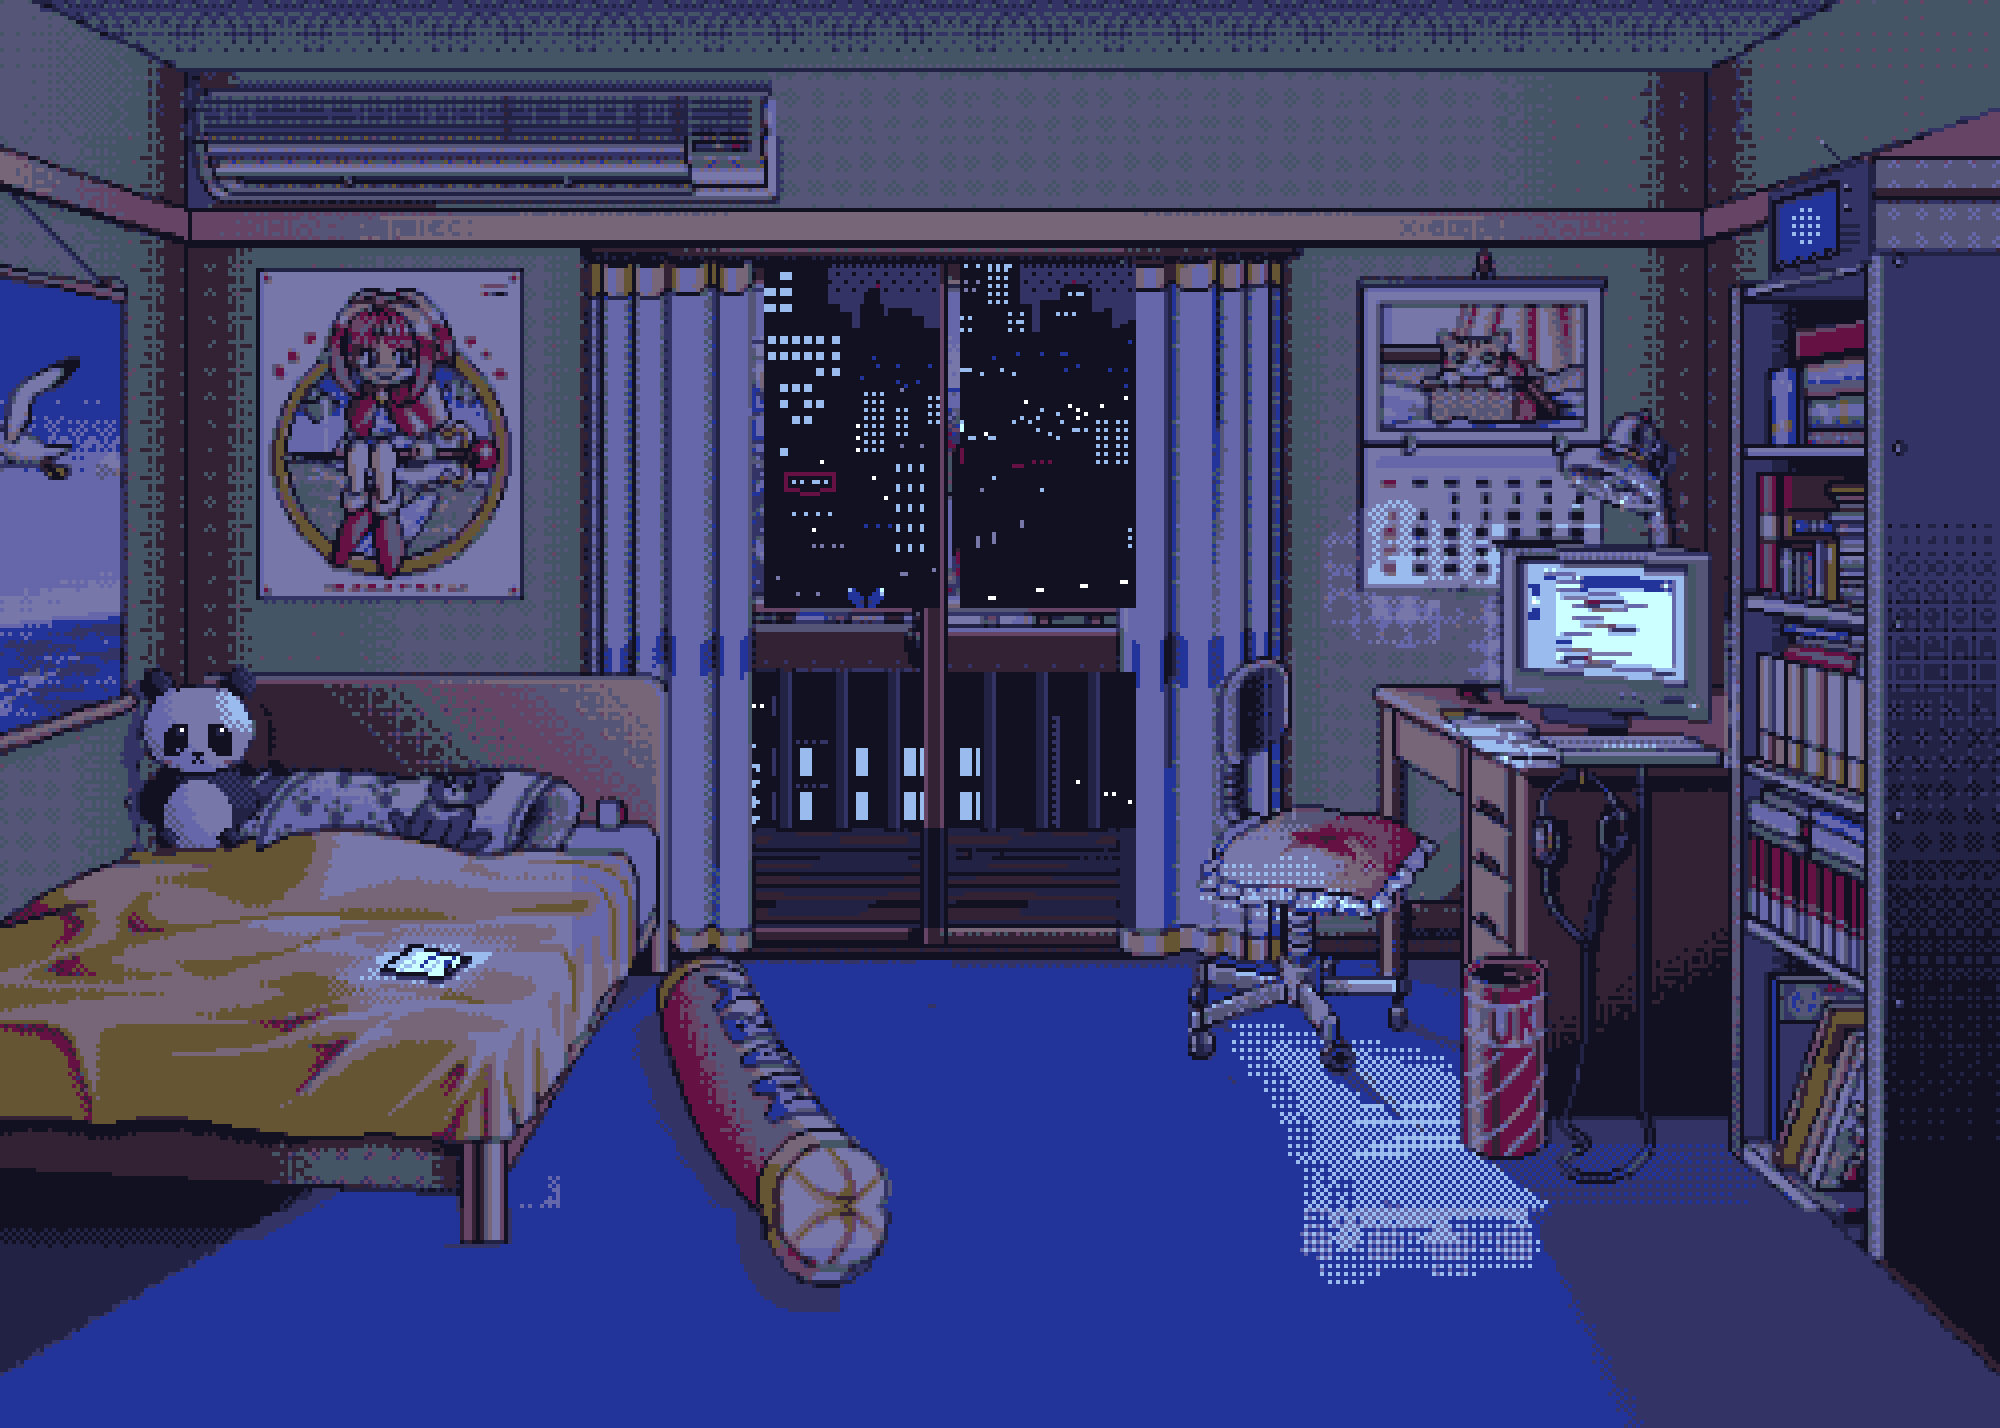
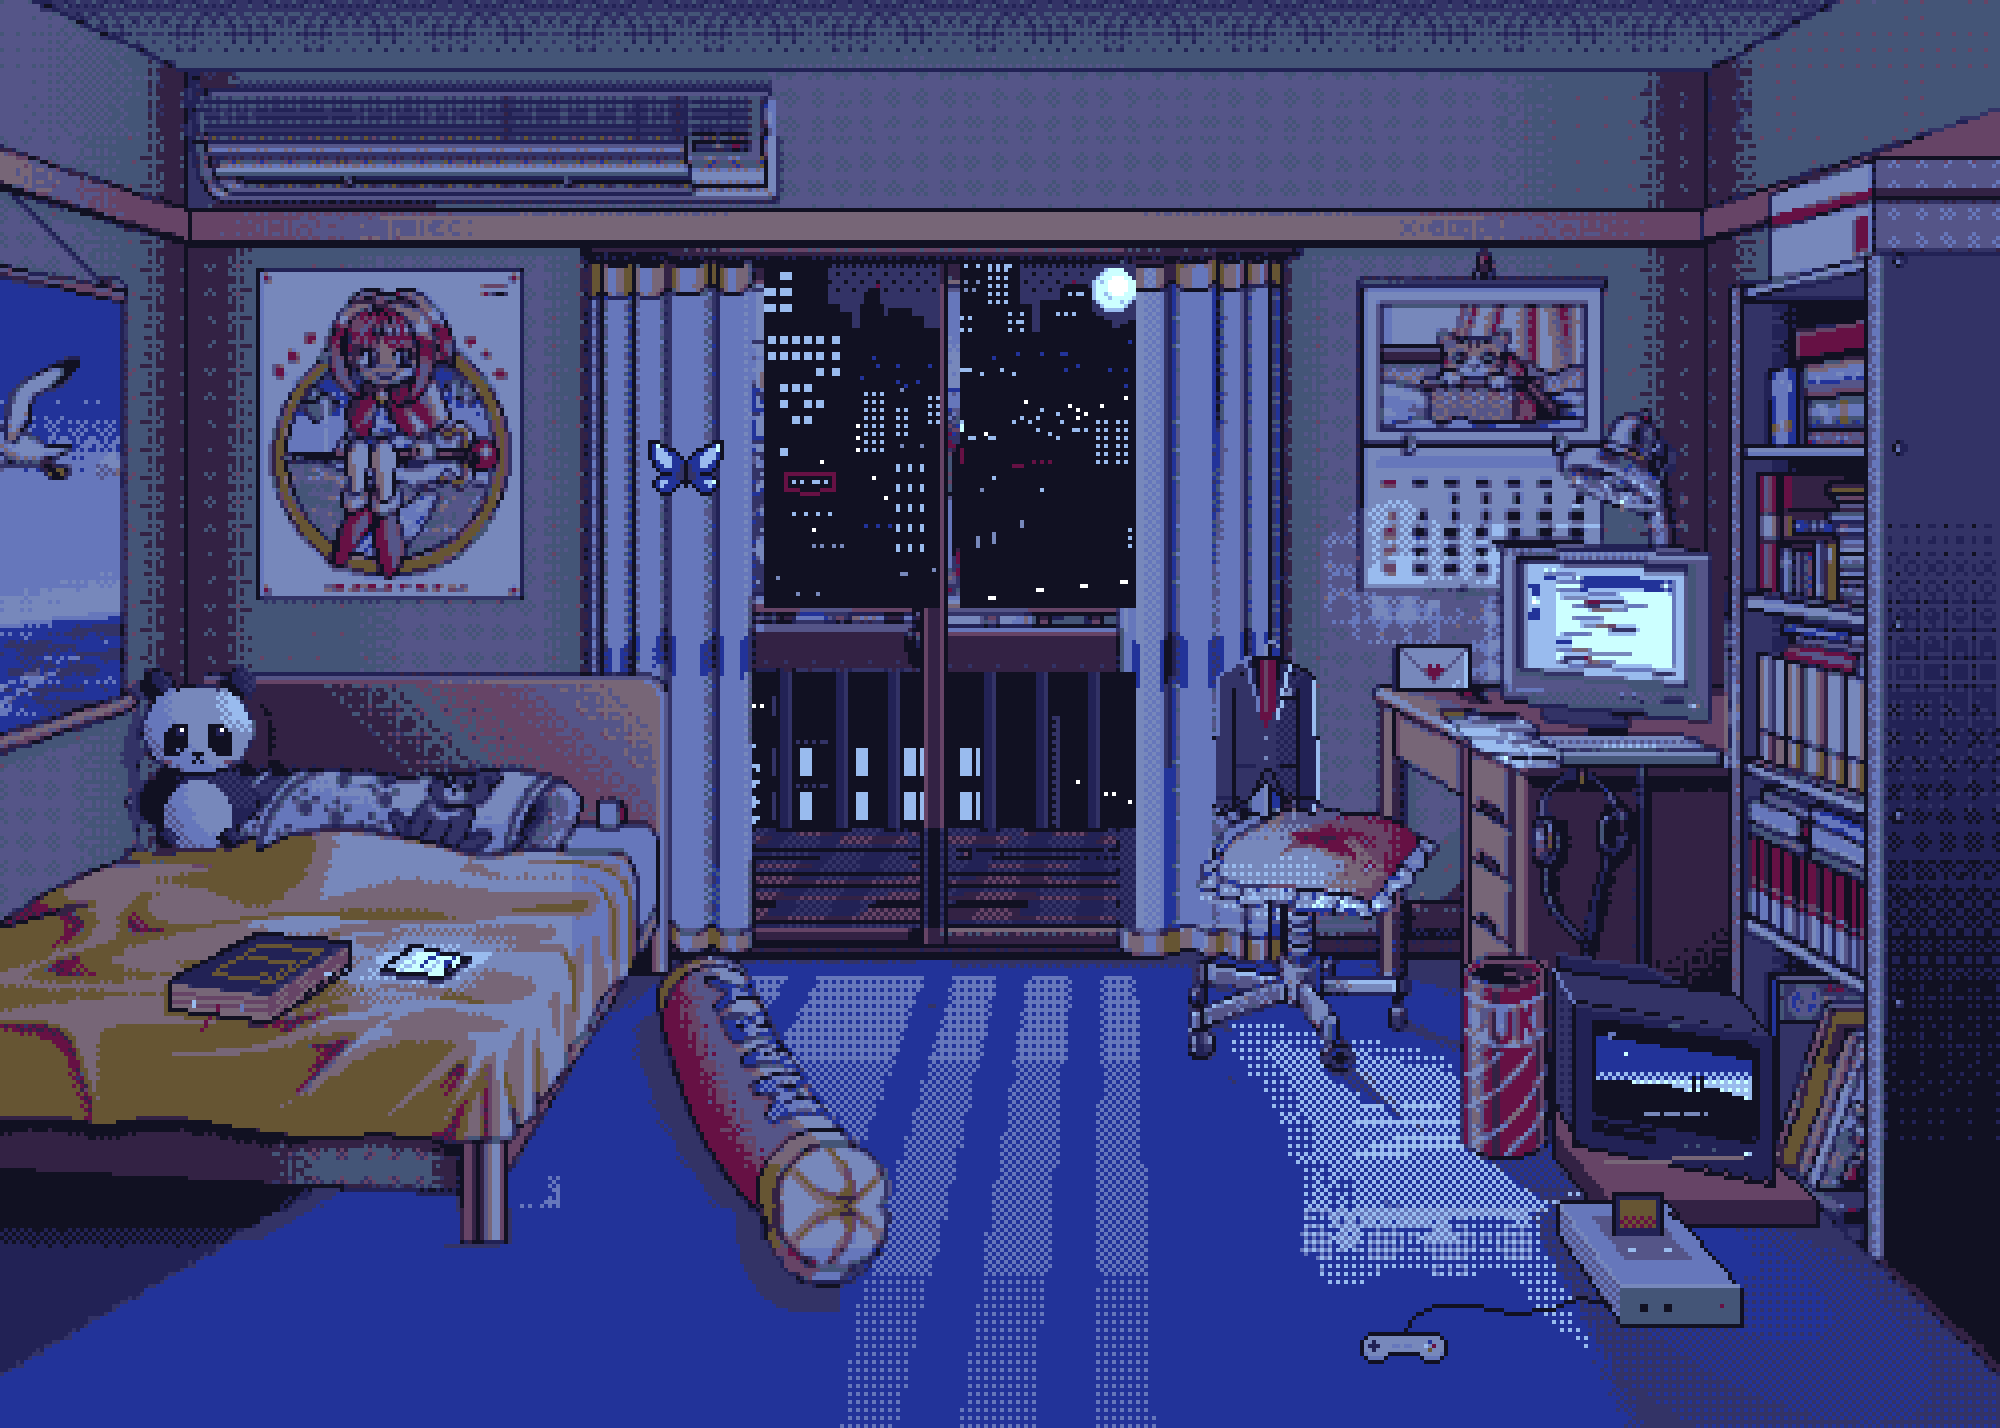
Panda's Room v2: moonlit art, letter, console, tome, blazer and poster; front objects win the pointer
Art v2 from pc98-assets easel/pieces/panda-room (out/site): moonlight through the window, a bigger
butterfly and TV, and new objects. room-data.js takes every polygon/anchor/lit/hit from hotspots.json
and adds Email (letter), Steam (console), LessWrong (tome on the bed), LinkedIn (blazer on the chair)
and the poster knick-knack; images bumped to ?v=4, twinkle moved to the new city rect. room.js stacks
hit areas by the art's z-order (front to back), so the blazer wins over the window and the console
over the TV.

diff --git a/js/room-data.js b/js/room-data.js
@@ -4,8 +4,11 @@
 // (export.py -> out/site: room.png, hotspots.json, lit/, twinkle). All coordinates are the scene's native
 // 500x357 pixels; the images are nearest-neighbour 4x copies that the browser scales down smoothly, so
 // pixels stay crisp and even.
+// The room is only for places elsewhere on the web (accounts, email); the site's own pages are in the sidenav.
 // rank = prominence (how much Panda uses the account): 1 is most. It orders the LOOK list,
 // keyboard focus and which unvisited object glints first.
+// zOrder = the art's objects front to back (hotspots.json z_order_front_to_back): where hit areas
+// overlap (the blazer over the window, the console over the TV), the front one wins.
 // Dialogue: real visual-novel lines where they fit this room (verbatim, adapted or interpolated;
 // PC-98-era lines translated from the Japanese) and plain lines in the same register where they
 // don't; every line has to make sense coming from Panda, about that object, in this night room.
@@ -13,12 +16,15 @@
 // Keep each box <= 48 characters and use straight quotes (the pc-98 font draws curly ones full-width).
 window.ROOM = {
     scene: {
-        src: "/img/room/room@4x.png?v=3",
+        src: "/img/room/room@4x.png?v=4",
         width: 500,
         height: 357,
         // city lights: an 8-frame strip stepped like PC-98 palette cycling (the export's twinkle.json)
-        twinkle: { src: "/img/room/twinkle@4x.png?v=3", x: 189, y: 68, w: 91, h: 133, frames: 8, fps: 2 }
+        twinkle: { src: "/img/room/twinkle@4x.png?v=4", x: 191, y: 68, w: 92, h: 87, frames: 8, fps: 2 }
     },
+
+    zOrder: ["controller", "tv", "butterfly", "linkedin", "letter", "phone", "lesswrong", "plush",
+             "pc", "newspaper", "bookshelf", "poster", "window"],
 
     greeting: [
         "Welcome, traveler, to my room of mysteries.",
@@ -32,9 +38,9 @@ window.ROOM = {
             name: "Window",
             service: "Twitter",
             rank: 1,
-            polygon: [[146, 60], [328, 60], [328, 162], [308, 162], [306, 164], [301, 241], [163, 241], [162, 209], [159, 206], [146, 205], [146, 61]],
+            polygon: [[146, 60], [328, 60], [328, 162], [308, 162], [306, 164], [306, 168], [304, 169], [301, 241], [163, 241], [162, 209], [159, 206], [146, 205], [146, 61]],
             anchor: [233, 145],
-            lit: { src: "/img/room/lit/window@4x.png?v=3", x: 145, y: 59, w: 184, h: 183 },
+            lit: { src: "/img/room/lit/window@4x.png?v=4", x: 145, y: 59, w: 184, h: 183 },
             hover: "E-everything looks so p-pretty at night...",
             click: [
                 "The town, the people... we're all family.",
@@ -53,7 +59,7 @@ window.ROOM = {
             rank: 2,
             polygon: [[102, 236], [118, 239], [118, 241], [113, 245], [107, 246], [95, 244], [95, 242], [102, 237]],
             anchor: [106, 241],
-            lit: { src: "/img/room/lit/phone@4x.png?v=3", x: 94, y: 235, w: 25, h: 12 },
+            lit: { src: "/img/room/lit/phone@4x.png?v=4", x: 94, y: 235, w: 25, h: 12 },
             hit: [[90, 231], [123, 231], [123, 251], [90, 251]], // padded: the object itself is tiny
             hover: "Eh? My phone's buzzing... is that you?",
             click: [
@@ -74,7 +80,7 @@ window.ROOM = {
             rank: 3,
             polygon: [[373, 135], [421, 136], [428, 138], [428, 180], [424, 184], [431, 187], [431, 192], [390, 192], [390, 189], [387, 186], [381, 184], [386, 180], [382, 176], [375, 175], [375, 138], [373, 136]],
             anchor: [402, 161],
-            lit: { src: "/img/room/lit/pc@4x.png?v=3", x: 372, y: 134, w: 60, h: 59 },
+            lit: { src: "/img/room/lit/pc@4x.png?v=4", x: 372, y: 134, w: 60, h: 59 },
             hover: "I keep falling asleep at that computer...",
             click: [
                 "My true love has always been my computer.",
@@ -93,7 +99,7 @@ window.ROOM = {
             rank: 4,
             polygon: [[359, 177], [380, 178], [385, 182], [384, 184], [390, 188], [390, 191], [370, 189], [359, 178]],
             anchor: [374, 183],
-            lit: { src: "/img/room/lit/newspaper@4x.png?v=3", x: 358, y: 176, w: 32, h: 16 },
+            lit: { src: "/img/room/lit/newspaper@4x.png?v=4", x: 358, y: 176, w: 32, h: 16 },
             hover: "Heh. Who knew my essays could be interesting?",
             click: [
                 "I write about cities on my Substack.",
@@ -110,9 +116,9 @@ window.ROOM = {
             name: "Bookshelf",
             service: "Reading list",
             rank: 5,
-            polygon: [[468, 65], [472, 65], [472, 318], [438, 287], [431, 285], [431, 73], [468, 66]],
-            anchor: [452, 184],
-            lit: { src: "/img/room/lit/bookshelf@4x.png?v=3", x: 430, y: 64, w: 43, h: 255 },
+            polygon: [[468, 65], [472, 65], [472, 318], [458, 305], [456, 305], [455, 300], [444, 291], [444, 259], [434, 248], [431, 248], [431, 73], [468, 66]],
+            anchor: [452, 179],
+            lit: { src: "/img/room/lit/bookshelf@4x.png?v=4", x: 430, y: 64, w: 43, h: 255 },
             hover: "If it's books you want, leave it to me.",
             click: [
                 "My reading list isn't ready yet. Soon!",
@@ -128,10 +134,10 @@ window.ROOM = {
             name: "Butterfly",
             service: "Bluesky",
             rank: 6,
-            polygon: [[212, 147], [216, 150], [221, 147], [219, 152], [214, 152], [212, 148]],
-            anchor: [216, 150],
-            lit: { src: "/img/room/lit/butterfly@4x.png?v=3", x: 211, y: 146, w: 11, h: 7 },
-            hit: [[206, 141], [227, 141], [227, 158], [206, 158]], // padded: the object itself is tiny
+            polygon: [[162, 110], [169, 112], [171, 115], [174, 112], [181, 110], [181, 115], [178, 118], [180, 122], [178, 124], [175, 124], [173, 121], [165, 124], [163, 122], [165, 118], [162, 115], [162, 111]],
+            anchor: [171, 116],
+            lit: { src: "/img/room/lit/butterfly@4x.png?v=4", x: 161, y: 109, w: 21, h: 16 },
+            hit: [[159, 107], [184, 107], [184, 127], [159, 127]], // padded, so it's easy to catch
             hover: "I love butterflies. They are the best animal.",
             click: [
                 "That one's my Bluesky. I'm there sometimes.",
@@ -148,9 +154,9 @@ window.ROOM = {
             name: "TV",
             service: "Letterboxd",
             rank: 7,
-            polygon: [[460, 40], [468, 41], [468, 66], [442, 71], [442, 48], [460, 41]],
-            anchor: [455, 55],
-            lit: { src: "/img/room/lit/tv@4x.png?v=3", x: 441, y: 34, w: 28, h: 38 },
+            polygon: [[389, 238], [412, 241], [422, 247], [434, 248], [444, 259], [444, 291], [455, 300], [455, 307], [422, 307], [418, 304], [419, 302], [415, 298], [396, 300], [396, 298], [388, 290], [389, 239]],
+            anchor: [417, 274],
+            lit: { src: "/img/room/lit/tv@4x.png?v=4", x: 387, y: 237, w: 69, h: 71 },
             hover: "You've found the television, then.",
             click: [
                 "Every movie I watch goes on my Letterboxd.",
@@ -159,6 +165,85 @@ window.ROOM = {
             repeat: ["It's pro wrestling! Woo! Woo!"],
             choices: [
                 { label: "Visit Letterboxd", href: "https://letterboxd.com/VivaLaPanda/" },
+                { label: "Look at something else" }
+            ]
+        },
+        {
+            id: "letter",
+            name: "Letter",
+            service: "Email",
+            rank: 8,
+            polygon: [[349, 161], [368, 161], [368, 173], [349, 173], [349, 162]],
+            anchor: [358, 166],
+            lit: { src: "/img/room/lit/letter@4x.png?v=4", x: 348, y: 160, w: 21, h: 14 },
+            hit: [[346, 158], [371, 158], [371, 176], [346, 176]], // padded: the object itself is small
+            hover: "Letters are a lost art, you know.",
+            click: [
+                "You can always write to me.",
+                "I'm at me@panda.moe. I read everything!"
+            ],
+            repeat: ["Write to me, okay? I'll write back."],
+            choices: [
+                { label: "Write to me@panda.moe", href: "mailto:me@panda.moe" },
+                { label: "Look at something else" }
+            ]
+        },
+        {
+            id: "controller",
+            name: "Game console",
+            service: "Steam",
+            rank: 9,
+            polygon: [[403, 298], [416, 298], [420, 305], [436, 322], [436, 332], [405, 332], [401, 326], [394, 325], [398, 321], [389, 309], [389, 300], [403, 299]],
+            anchor: [403, 318],
+            lit: { src: "/img/room/lit/controller@4x.png?v=4", x: 339, y: 297, w: 98, h: 45 },
+            hit: [[338, 335], [342, 331], [389, 298], [403, 296], [416, 296], [418, 298], [435, 318], [438, 322], [438, 332], [436, 334], [360, 343], [342, 343], [338, 339]], // console, cartridge and pad
+            hover: "My console! Don't look at my hours played.",
+            click: [
+                "I play games rarely. ...Very rarely.",
+                "I'll go easy on you. Maybe."
+            ],
+            repeat: ["One more game. Then sleep. Probably."],
+            choices: [
+                // verified 2026-10-04: profile "VivaLaPanda", summary "I play games rarely."
+                { label: "Visit Steam", href: "https://steamcommunity.com/id/vivalapanda" },
+                { label: "Look at something else" }
+            ]
+        },
+        {
+            id: "lesswrong",
+            name: "Tome",
+            service: "LessWrong",
+            rank: 10,
+            polygon: [[63, 233], [88, 235], [88, 243], [70, 255], [63, 256], [54, 254], [51, 257], [47, 253], [42, 253], [42, 245], [63, 234]],
+            anchor: [64, 244],
+            lit: { src: "/img/room/lit/lesswrong@4x.png?v=4", x: 41, y: 232, w: 48, h: 27 },
+            hover: "That tome? It changed how I think. Really.",
+            click: [
+                "Bedtime reading. Very light, as you can see.",
+                "My long-winded thoughts live on LessWrong."
+            ],
+            repeat: ["Change my mind! Really. Bring evidence."],
+            choices: [
+                { label: "Visit LessWrong", href: "https://www.lesswrong.com/users/vivalapanda" },
+                { label: "Look at something else" }
+            ]
+        },
+        {
+            id: "linkedin",
+            name: "Blazer",
+            service: "LinkedIn",
+            rank: 11,
+            polygon: [[317, 160], [320, 161], [319, 163], [321, 165], [329, 169], [330, 201], [329, 204], [324, 203], [316, 196], [307, 204], [304, 204], [303, 202], [304, 169], [317, 161]],
+            anchor: [316, 183],
+            lit: { src: "/img/room/lit/linkedin@4x.png?v=4", x: 302, y: 159, w: 29, h: 46 },
+            hover: "My interview blazer. It's seen things.",
+            click: [
+                "I put it on when I have to be an adult.",
+                "My job title? Mad scientist. ...Sort of."
+            ],
+            repeat: ["Business casual is a lie, you know."],
+            choices: [
+                { label: "Visit LinkedIn", href: "https://www.linkedin.com/in/smithdevio/" },
                 { label: "Look at something else" }
             ]
         }
@@ -171,11 +256,23 @@ window.ROOM = {
             name: "Panda plush",
             polygon: [[38, 167], [43, 168], [45, 171], [54, 171], [58, 167], [63, 168], [64, 173], [62, 178], [64, 180], [64, 185], [59, 193], [65, 198], [65, 203], [60, 207], [61, 210], [59, 212], [55, 211], [54, 213], [45, 213], [44, 211], [40, 212], [38, 210], [39, 207], [34, 203], [34, 198], [40, 193], [35, 185], [35, 180], [37, 178], [35, 170], [38, 168]],
             anchor: [49, 190],
-            lit: { src: "/img/room/lit/plush@4x.png?v=3", x: 33, y: 166, w: 33, h: 48 },
+            lit: { src: "/img/room/lit/plush@4x.png?v=4", x: 33, y: 166, w: 33, h: 48 },
             hover: "The panda says, 'Gao, gao!'",
             lines: [
                 "He's the original Panda. I'm the sequel.",
                 "Sorry, I was born cute."
+            ]
+        },
+        {
+            id: "poster",
+            name: "Poster",
+            polygon: [[64, 67], [131, 67], [131, 150], [64, 150], [64, 68]],
+            anchor: [97, 108],
+            lit: { src: "/img/room/lit/poster@4x.png?v=4", x: 63, y: 66, w: 69, h: 85 },
+            hover: "Don't judge my poster. She's a hero!",
+            lines: [
+                "That's my favorite magical girl!",
+                "...I've rewatched it more than I'll admit."
             ]
         }
     ],

diff --git a/js/room.js b/js/room.js
@@ -115,11 +115,16 @@
         });
         svg.appendChild(og);
 
-        // hit areas, largest first, so small objects sit on top and win the pointer where they
-        // overlap (the monitor over the window, the butterfly's padded area over the sill)
+        // hit areas back to front, so the front object wins the pointer where they overlap (the
+        // blazer over the window, the console over the TV): the art's zOrder (front to back) when
+        // there is one, then largest first, so small objects sit on top
         function hitArea(o) { return o.hit || o.polygon; }
+        var z = R.zOrder || [];
+        function depth(o) { var i = z.indexOf(o.id); return i < 0 ? z.length : i; }
         var g = el("g", {}, true);
-        spots.slice().sort(function (a, b) { return area(hitArea(b)) - area(hitArea(a)); }).forEach(function (o) {
+        spots.slice().sort(function (a, b) {
+            return (depth(b) - depth(a)) || (area(hitArea(b)) - area(hitArea(a)));
+        }).forEach(function (o) {
             var poly = el("polygon", {
                 "class": "room-hotspot",
                 points: points(hitArea(o)),

diff --git a/room.html b/room.html
@@ -15,7 +15,7 @@
 			<div class="subwindow" id="main-image">
 				<div id="room-frame">
 					<div id="room-stage">
-						<img id="room-art" alt="Panda's room at night: a desk with a PC under a big window onto the city, a bookshelf, a bed with a panda plush, and a small TV">
+						<img id="room-art" alt="Panda's room at night: moonlight through a big window onto the city, a desk with a PC and a blazer on the chair, a bookshelf, a magical-girl poster, a bed with a panda plush, a phone and a thick book, and a small TV and game console on the floor">
 						<svg id="room-hotspots" role="group" aria-label="Things in Panda's room" xmlns="http://www.w3.org/2000/svg"></svg>
 					</div>
 				</div>

diff --git a/templates/room.html b/templates/room.html
@@ -15,7 +15,7 @@
 			<div class="subwindow" id="main-image">
 				<div id="room-frame">
 					<div id="room-stage">
-						<img id="room-art" alt="Panda's room at night: a desk with a PC under a big window onto the city, a bookshelf, a bed with a panda plush, and a small TV">
+						<img id="room-art" alt="Panda's room at night: moonlight through a big window onto the city, a desk with a PC and a blazer on the chair, a bookshelf, a magical-girl poster, a bed with a panda plush, a phone and a thick book, and a small TV and game console on the floor">
 						<svg id="room-hotspots" role="group" aria-label="Things in Panda's room" xmlns="http://www.w3.org/2000/svg"></svg>
 					</div>
 				</div>
